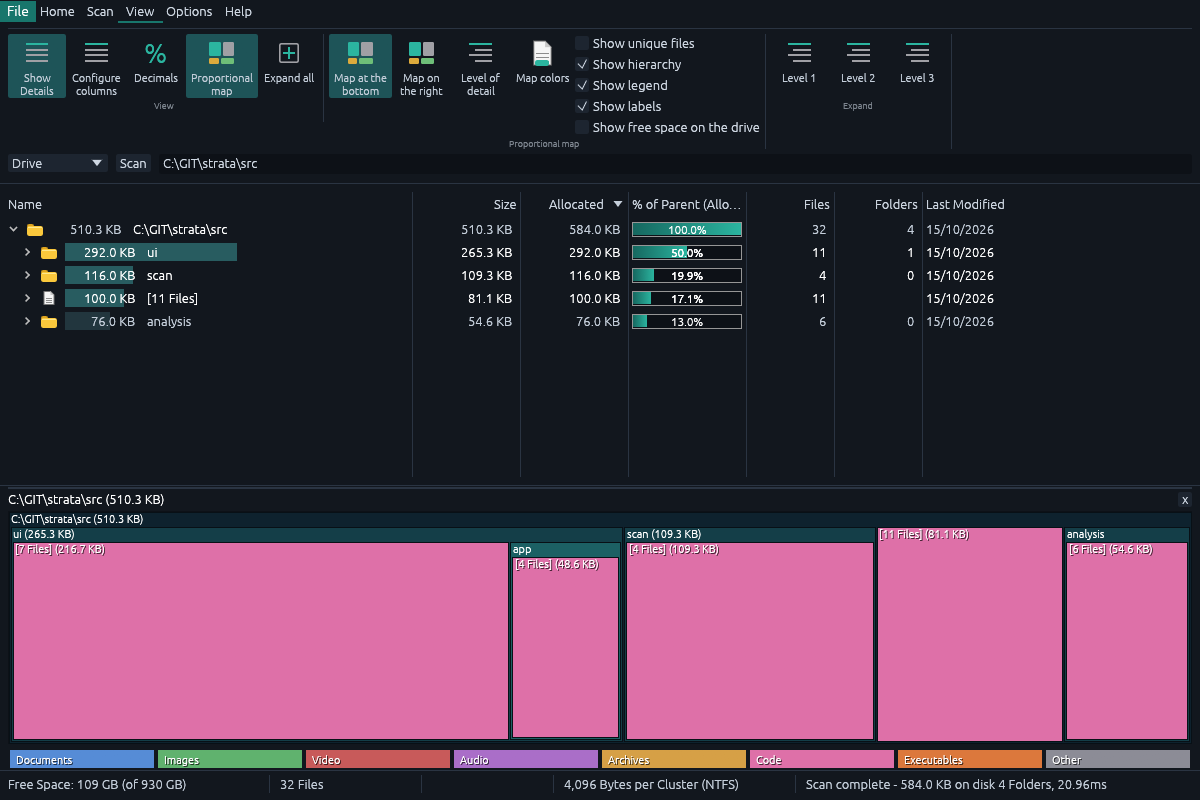
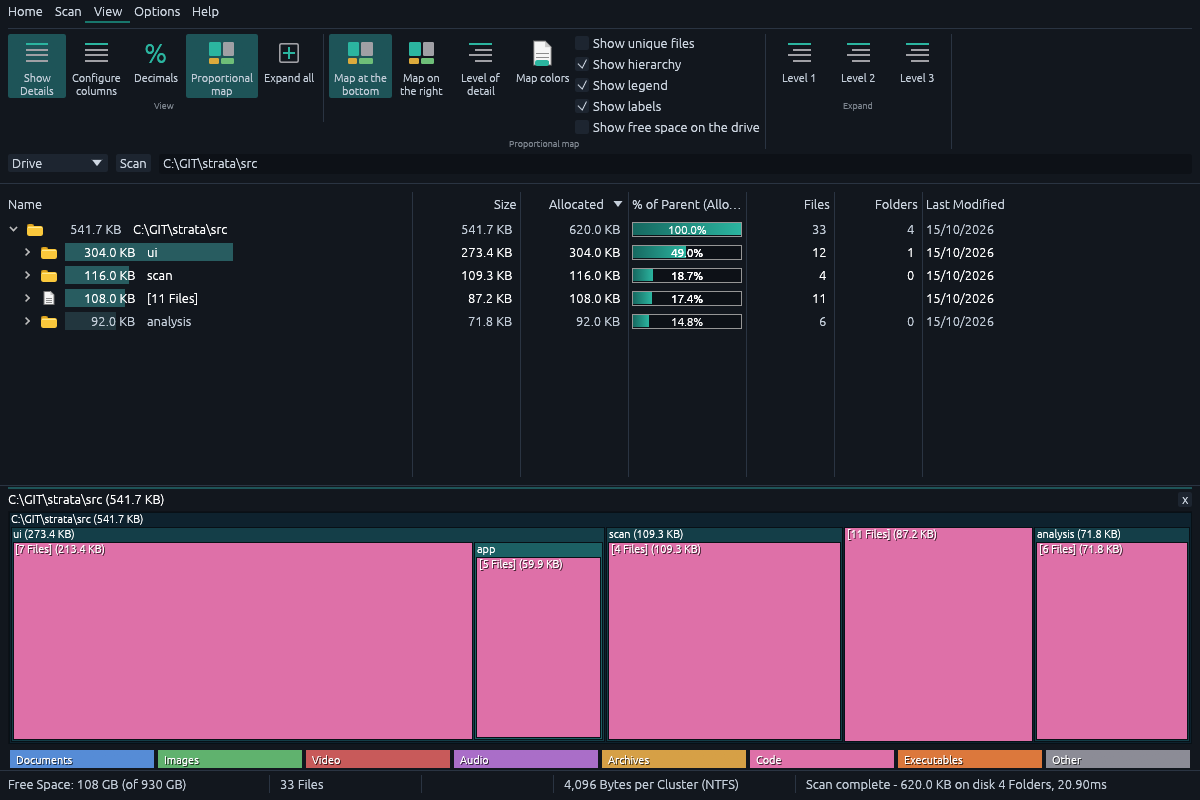
Remove the File tab: everything in it was already elsewhere
Select Directory / Refresh / Stop are on Home, Options and About on the
Options and Help tabs, recent folders on the start page and in the path
menu, Exit is the window's close button. New window moves next to
Restart as Administrator (Ctrl+Shift+N still works). Tabs are now
Home / Scan / View / Options / Help (--tab 0-4); README screenshots retaken.

diff --git a/src/ui/app/ribbon.rs b/src/ui/app/ribbon.rs
@@ -1,4 +1,4 @@
-//! Compact tabbed ribbon (File / Home / Analyse / View / Options / Help); the icons are vector
+//! Compact tabbed ribbon (Home / Analyse / View / Options / Help); the icons are vector
 //! glyphs from `paint`.
 
 use super::*;
@@ -38,7 +38,6 @@ pub(super) const HINTS: &[(&str, &str)] = &[
     ("Stop Scan", "Stop the running scan and keep what was found."),
     ("Refresh", "Scan the current folder again (F5)."),
     ("New window", "Open another Strata window (Ctrl+Shift+N)."),
-    ("Exit", "Close Strata."),
     ("Size", "Sort by the size of files and folders (Ctrl+1)."),
     ("Allocated Space", "Sort by the space really used on disk (Ctrl+2)."),
     ("File Count", "Sort by the number of files (Ctrl+4)."),
@@ -159,25 +158,20 @@ impl App {
     pub(super) fn ribbon(&mut self, ui: &mut egui::Ui) -> Option<Cmd> {
         let mut out: Option<Cmd> = None;
         let names = [
-            cap("FileMenu", "&File"),
             cap("TabHomeTitleAction", "&Home"),
             cap("ScanTabTitleAction", "&Scan"),
             cap("TabViewTitleAction", "&View"),
             cap("TabOptionsTitleAction", "&Options"),
             cap("HelpTabTitleAction", "Hel&p"),
         ];
-        let accent = super::super::theme::FILE_TAB;
+        let accent = super::super::theme::TAB_ACCENT;
         ui.horizontal(|ui| {
             ui.spacing_mut().item_spacing.x = 2.0;
             for (i, n) in names.iter().enumerate() {
                 let active = self.ribbon_tab == i;
-                let text = if i == 0 { RichText::new(n).color(Color32::WHITE) } else { RichText::new(n) };
-                let resp = ui.add(egui::Label::new(text).sense(Sense::click())).on_hover_cursor(egui::CursorIcon::PointingHand);
+                let resp = ui.add(egui::Label::new(RichText::new(n)).sense(Sense::click())).on_hover_cursor(egui::CursorIcon::PointingHand);
                 let r = resp.rect.expand2(egui::vec2(8.0, 3.0));
-                if i == 0 {
-                    ui.painter().rect_filled(r, 0.0, accent);
-                    ui.painter().text(resp.rect.center(), egui::Align2::CENTER_CENTER, n, egui::FontId::proportional(14.0), Color32::WHITE);
-                } else if active {
+                if active {
                     ui.painter().line_segment([r.left_bottom(), r.right_bottom()], Stroke::new(2.0, accent));
                 }
                 if resp.clicked() {
@@ -196,35 +190,6 @@ impl App {
             ui.spacing_mut().item_spacing.x = 2.0;
             match self.ribbon_tab {
                 0 => {
-                    group(ui, &tr("Scan"), |ui| {
-                        self.big(ui, &mut out, Cmd::ScanDir, Icon::Folder, "Select &Directory");
-                        let resp = big_button(ui, Icon::Open, "Recent folders", !scanning, false);
-                        egui::Popup::menu(&resp).show(|ui| {
-                            let recent = self.settings.recent.clone();
-                            if recent.is_empty() {
-                                ui.weak(tr("(none)"));
-                            }
-                            for r in recent {
-                                if ui.button(&r).clicked() {
-                                    self.path_text = r;
-                                    self.start_scan();
-                                    ui.close();
-                                }
-                            }
-                        });
-                        self.big(ui, &mut out, Cmd::Refresh, Icon::Refresh, "Refresh");
-                        self.big(ui, &mut out, Cmd::Stop, Icon::Stop, "Stop Scan");
-                    });
-                    group(ui, &tr("Window"), |ui| {
-                        self.big(ui, &mut out, Cmd::NewInstance, Icon::Files, "New window");
-                        self.big(ui, &mut out, Cmd::Exit, Icon::Exclude, "Exit");
-                    });
-                    group(ui, &tr("Application"), |ui| {
-                        self.big(ui, &mut out, Cmd::Options, Icon::Options, "Options");
-                        self.big(ui, &mut out, Cmd::About, Icon::About, "About");
-                    });
-                }
-                1 => {
                     group(ui, &cap("ScanTabTitleAction", "&Scan"), |ui| {
                         self.big(ui, &mut out, Cmd::ScanDir, Icon::Folder, "Select &Directory");
                         self.big(ui, &mut out, Cmd::Stop, Icon::Stop, "Stop Scan");
@@ -268,6 +233,7 @@ impl App {
                     });
                     group(ui, &cap("GrpToolsTitleAction", "Tools"), |ui| {
                         self.big(ui, &mut out, Cmd::RestartAdmin, Icon::Bolt, "Restart as Administrator");
+                        self.big(ui, &mut out, Cmd::NewInstance, Icon::Files, "New window");
                         let resp = big_button(ui, Icon::Export, "Export", self.loaded.is_some() && !scanning, false);
                         egui::Popup::menu(&resp).show(|ui| {
                             for (label, fmt) in [("CSV...", export::Format::Csv), ("HTML report...", export::Format::Html), ("JSON...", export::Format::Json)] {
@@ -279,7 +245,7 @@ impl App {
                         });
                     });
                 }
-                2 => {
+                1 => {
                     group(ui, &tr("Views"), |ui| {
                         for (v, ic, l) in [
                             (ViewKind::Tree, Icon::Tree, "Tree"),
@@ -312,7 +278,7 @@ impl App {
                         }
                     });
                 }
-                3 => {
+                2 => {
                     group(ui, &cap("GrpViewTitleAction", "View"), |ui| {
                         self.big(ui, &mut out, Cmd::ToggleDetails, Icon::Details, "Show Details");
                         let resp = big_button(ui, Icon::Details, "Configure columns", true, false);
@@ -371,7 +337,7 @@ impl App {
                         }
                     });
                 }
-                4 => group(ui, &tr("Options"), |ui| {
+                3 => group(ui, &tr("Options"), |ui| {
                     let resp = big_button(ui, Icon::Types, "Language", true, false);
                     egui::Popup::menu(&resp).show(|ui| {
                         super::dialogs::language_choices(ui, &mut self.settings.language);

diff --git a/src/ui/app.rs b/src/ui/app.rs
@@ -443,7 +443,7 @@ pub struct RunOptions {
     pub live: bool,
     pub view: Option<ViewKind>,
     pub lang: Option<String>,
-    /// Ribbon tab to show (0 = File ... 5 = Help), for screenshots.
+    /// Ribbon tab to show (0 = Home ... 4 = Help), for screenshots.
     pub tab: Option<usize>,
     /// Dialog to open before the screenshot: "options" or "about".
     pub dialog: Option<String>,
@@ -482,7 +482,7 @@ pub fn parse_args(args: &[String]) -> Result<RunOptions, String> {
             }
             "--lang" => o.lang = Some(it.next().ok_or("--lang needs a code")?.clone()),
             "--dialog" => o.dialog = Some(it.next().ok_or("--dialog needs options or about")?.clone()),
-            "--tab" => o.tab = Some(it.next().ok_or("--tab needs a number 0-5")?.parse().map_err(|_| "--tab needs a number 0-5")?),
+            "--tab" => o.tab = Some(it.next().ok_or("--tab needs a number 0-4")?.parse().map_err(|_| "--tab needs a number 0-4")?),
             s if s.starts_with('-') => return Err(format!("unknown option '{s}'")),
             s => o.start = Some(PathBuf::from(s)),
         }
@@ -640,7 +640,7 @@ impl App {
             col_live: Vec::new(),
             col_changed: Instant::now(),
             files_expanded: HashSet::new(),
-            ribbon_tab: opts.tab.unwrap_or(1).min(5),
+            ribbon_tab: opts.tab.unwrap_or(0).min(4),
             disk: None,
             settings: st,
             settings_path,
@@ -1322,7 +1322,6 @@ impl App {
                 self.settings.map_right = r;
                 self.settings.show_map = true;
             }
-            Cmd::Exit => ctx.send_viewport_cmd(egui::ViewportCommand::Close),
             Cmd::NewInstance => {
                 if let Ok(exe) = std::env::current_exe() {
                     let _ = std::process::Command::new(exe).spawn();

diff --git a/src/i18n_fr.rs b/src/i18n_fr.rs
@@ -88,8 +88,6 @@ static FR: &[(&str, &str)] = &[
     ("The list changed.", "La liste a changé."),
     ("bring it back in Options > Excluded folders", "à rétablir dans Options > Dossiers exclus"),
     ("Show the excluded folders (Options)", "Afficher les dossiers exclus (Options)"),
-    ("Application", "Application"),
-    ("Window", "Fenêtre"),
     ("Duplicates", "Doublons"),
     ("Choose the folder or drive to analyze (Ctrl+O).", "Choisir le dossier ou le lecteur à analyser (Ctrl+O)."),
     ("Recent folders", "Dossiers récents"),
@@ -97,7 +95,6 @@ static FR: &[(&str, &str)] = &[
     ("Stop the running scan and keep what was found.", "Arrêter l'analyse en cours en gardant ce qui a été trouvé."),
     ("Scan the current folder again (F5).", "Analyser à nouveau le dossier courant (F5)."),
     ("Open another Strata window (Ctrl+Shift+N).", "Ouvrir une autre fenêtre Strata (Ctrl+Maj+N)."),
-    ("Close Strata.", "Fermer Strata."),
     ("Sort by the size of files and folders (Ctrl+1).", "Trier par taille des fichiers et des dossiers (Ctrl+1)."),
     ("Sort by the space really used on disk (Ctrl+2).", "Trier par espace réellement occupé sur le disque (Ctrl+2)."),
     ("Sort by the number of files (Ctrl+4).", "Trier par nombre de fichiers (Ctrl+4)."),
@@ -331,7 +328,6 @@ static FR: &[(&str, &str)] = &[
     ("New window", "Nouvelle fenêtre"),
     ("Choose folder to scan", "Choisir le dossier à analyser"),
     ("Close Strata", "Fermer Strata"),
-    ("Exit", "Quitter"),
     ("Open another Strata window", "Ouvrir une autre fenêtre Strata"),
     ("Pick the unit that fits each size", "Choisit l'unité adaptée à chaque taille"),
     ("Stop scan", "Arrêter l'analyse"),

diff --git a/src/ui/app/ui_tests.rs b/src/ui/app/ui_tests.rs
@@ -305,7 +305,7 @@ fn no_ribbon_or_dialog_text_is_cut_off_in_english_or_french() {
     let mut problems = Vec::new();
     for lang in ["en", "fr"] {
         // The default window width (1200): every ribbon tab must fit without scrolling.
-        for tab in 0..=5usize {
+        for tab in 0..=4usize {
             let out = frames(lang, egui::vec2(1200.0, 900.0), |a| a.ribbon_tab = tab);
             problems.extend(clipped_texts(&out).into_iter().map(|t| format!("[{lang}] ribbon tab {tab}: {t}")));
         }

diff --git a/src/ui/theme.rs b/src/ui/theme.rs
@@ -90,7 +90,7 @@ pub const SERIES: Color32 = TEAL;
 pub const SERIES_DIM: Color32 = rgb(30, 128, 116);
 pub const SERIES_LATEST: Color32 = AMBER;
 pub const DANGER: Color32 = rgb(210, 70, 60);
-pub const FILE_TAB: Color32 = rgb(24, 118, 108);
+pub const TAB_ACCENT: Color32 = rgb(24, 118, 108);
 
 #[cfg(test)]
 mod tests {

diff --git a/src/spec.rs b/src/spec.rs
@@ -15,7 +15,6 @@ pub enum Cmd {
     SortBy(SortKey),
     SetUnits(Units),
     ToggleDetails,
-    Exit,
     NewInstance,
     Filter,
     Options,
